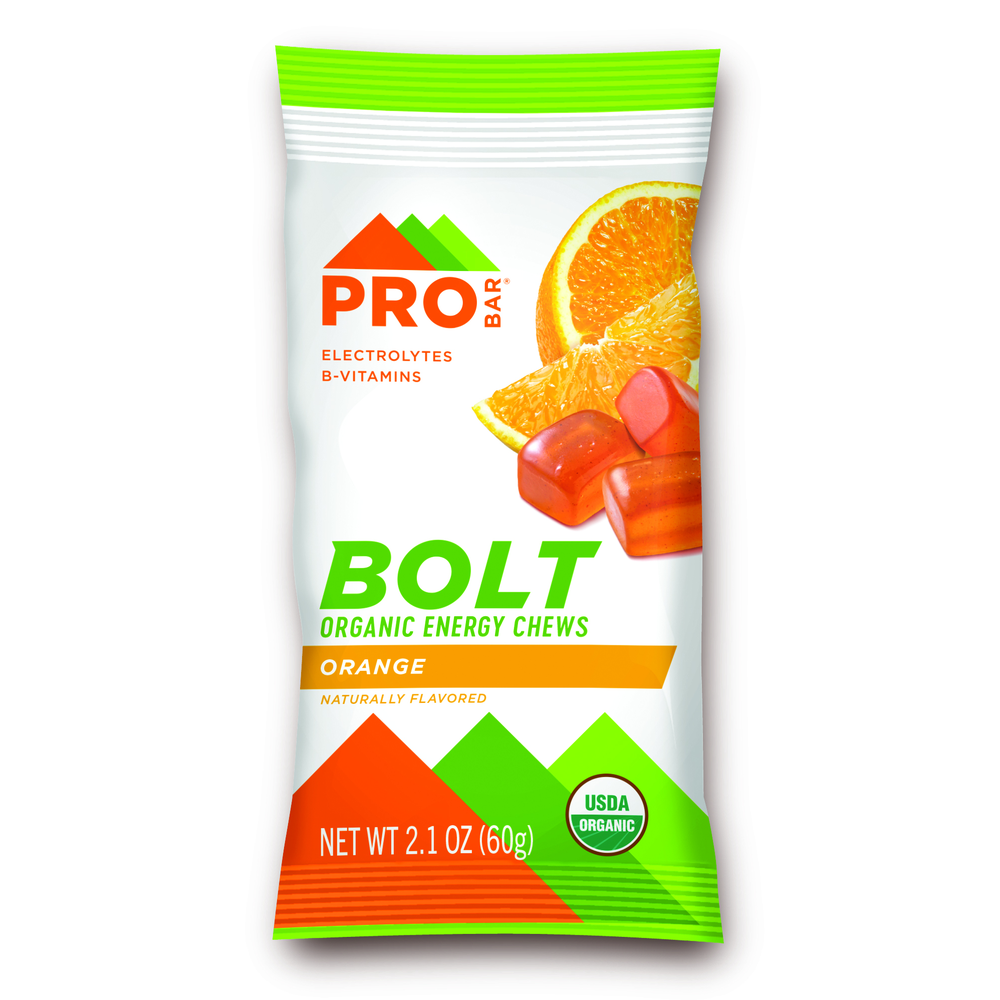
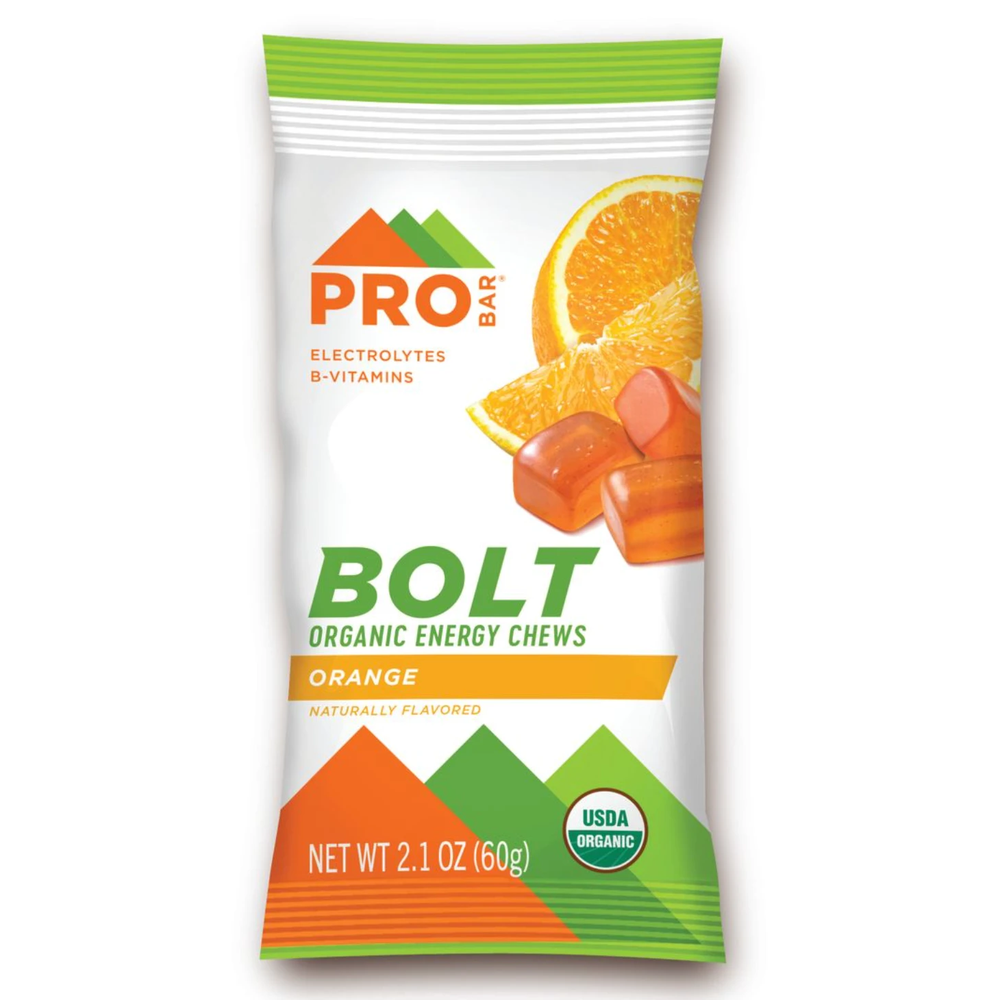
Corrige color real de Gomas Bolt Naranja (verde de BOLT era neón RGB(82,220,0), debía ser oliva RGB(98,169,70) como Fresa)

Changed region(s): [[0.248, 0.031, 0.744, 1.0]]

diff --git a/app.js b/app.js
@@ -5,7 +5,7 @@
    navegador puede seguir mostrando una copia vieja en caché. Subir este número
    cada vez que se reemplacen fotos de producto fuerza a descargar la versión
    nueva en vez de servir la cacheada. */
-const IMG_V = 3;
+const IMG_V = 4;
 function withImgV(src){
   if(!src) return src;
   return src.split('?')[0] + '?v=' + IMG_V;

diff --git a/categoria.html b/categoria.html
@@ -1036,6 +1036,6 @@
   </div>
 </footer>
 
-<script src="app.js?v=28"></script>
+<script src="app.js?v=29"></script>
 </body>
 </html>

diff --git a/articulo.html b/articulo.html
@@ -348,6 +348,6 @@
   </div>
 </footer>
 
-<script src="app.js?v=28"></script>
+<script src="app.js?v=29"></script>
 </body>
 </html>

diff --git a/busqueda.html b/busqueda.html
@@ -461,6 +461,6 @@
   </div>
 </footer>
 
-<script src="app.js?v=28"></script>
+<script src="app.js?v=29"></script>
 </body>
 </html>

diff --git a/carrito.html b/carrito.html
@@ -339,6 +339,6 @@
   </div>
 </footer>
 
-<script src="app.js?v=28"></script>
+<script src="app.js?v=29"></script>
 </body>
 </html>

diff --git a/guias.html b/guias.html
@@ -308,6 +308,6 @@
   </div>
 </footer>
 
-<script src="app.js?v=28"></script>
+<script src="app.js?v=29"></script>
 </body>
 </html>

diff --git a/index.html b/index.html
@@ -770,6 +770,6 @@
   </div>
 </footer>
 
-<script src="app.js?v=28"></script>
+<script src="app.js?v=29"></script>
 </body>
 </html>

diff --git a/marca-honey.html b/marca-honey.html
@@ -472,6 +472,6 @@
   </div>
 </footer>
 
-<script src="app.js?v=28"></script>
+<script src="app.js?v=29"></script>
 </body>
 </html>

diff --git a/marca-probar.html b/marca-probar.html
@@ -380,6 +380,6 @@
   </div>
 </footer>
 
-<script src="app.js?v=28"></script>
+<script src="app.js?v=29"></script>
 </body>
 </html>

diff --git a/marca-saltstick.html b/marca-saltstick.html
@@ -398,6 +398,6 @@
   </div>
 </footer>
 
-<script src="app.js?v=28"></script>
+<script src="app.js?v=29"></script>
 </body>
 </html>

diff --git a/marca-skratch.html b/marca-skratch.html
@@ -381,6 +381,6 @@
   </div>
 </footer>
 
-<script src="app.js?v=28"></script>
+<script src="app.js?v=29"></script>
 </body>
 </html>

diff --git a/marca.html b/marca.html
@@ -600,6 +600,6 @@
   </div>
 </footer>
 
-<script src="app.js?v=28"></script>
+<script src="app.js?v=29"></script>
 </body>
 </html>
